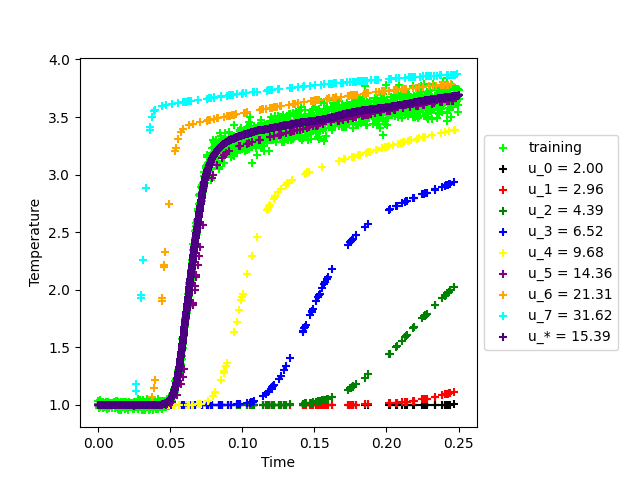
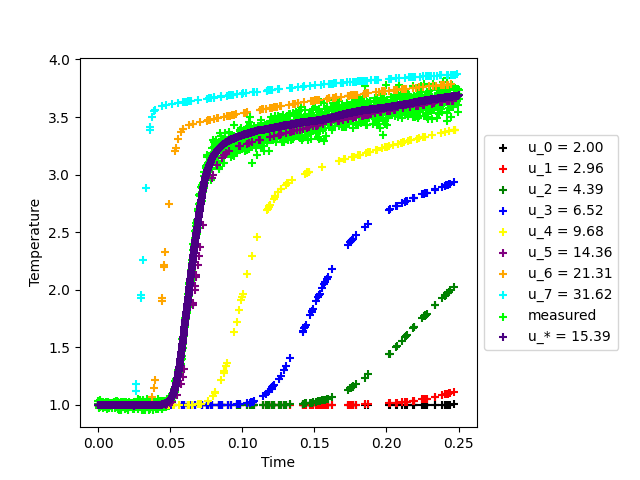
update plot 4

Changed region(s): [[0.8438, 0.4688, 0.9688, 0.6875], [0.8125, 0.2812, 0.9375, 0.4375]]

diff --git a/Project2/Project2/Task4/pipeline4/datahandler.py b/Project2/Project2/Task4/pipeline4/datahandler.py
@@ -147,14 +147,17 @@ class Datahandler:
 
         plt.scatter(self.t_scaler.inverse_transform(self.t_testing.detach().numpy()),
                     self.T_scaler.inverse_transform(self.T_testing.detach().numpy()),
-                    color='lime', marker='+', label="T")
+                    color='lime', marker='+', label="measured")
 
         for i in range(8):
             plt.scatter(self.t_scaler.inverse_transform(self.t_training[i*128:(i+1)*128].detach().numpy()),
-                       self.T_scaler.inverse_transform(self.T_training.detach().numpy()[i*128:(i+1)*128]),
-                       color=colors[i], marker='+', label=labels[i])
+                        self.T_scaler.inverse_transform(self.T_training.detach().numpy()[i*128:(i+1)*128]),
+                        color=colors[i], marker='+', label=labels[i])
 
-        plt.legend()
+        handles, labels = plt.gca().get_legend_handles_labels()
+        order = [1, 2, 3, 4, 5, 6, 7, 8, 0]
+        plt.legend([handles[idx] for idx in order], [labels[idx] for idx in order])
+
         plt.xlabel("Time")
         plt.ylabel("Temperature")
         plt.show()
@@ -208,7 +211,7 @@ class Datahandler:
 
         ax.scatter(self.t_scaler.inverse_transform(self.t_testing.detach().numpy()),
                    self.T_scaler.inverse_transform(self.T_testing.detach().numpy()),
-                   color='lime', marker='+', label="training")
+                   color='lime', marker='+', label="measured")
 
         for i in range(8):
             ax.scatter(self.t_scaler.inverse_transform(self.t_training[i*128:(i+1)*128].detach().numpy()),
@@ -233,8 +236,9 @@ class Datahandler:
         box = ax.get_position()
         ax.set_position([box.x0, box.y0, box.width * 0.8, box.height])
 
-        # Put a legend to the right of the current axis
-        ax.legend(loc='center left', bbox_to_anchor=(1, 0.5))
+        handles, labels = plt.gca().get_legend_handles_labels()
+        order = [1, 2, 3, 4, 5, 6, 7, 8, 0, 9]
+        ax.legend([handles[idx] for idx in order], [labels[idx] for idx in order], loc='center left', bbox_to_anchor=(1, 0.5))
 
         ax.set_xlabel("Time")
         ax.set_ylabel("Temperature")
